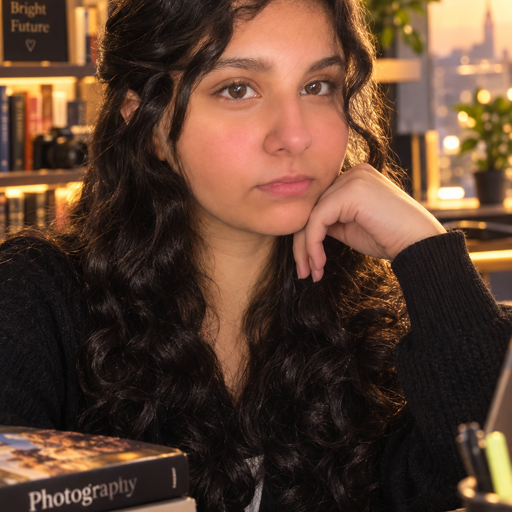
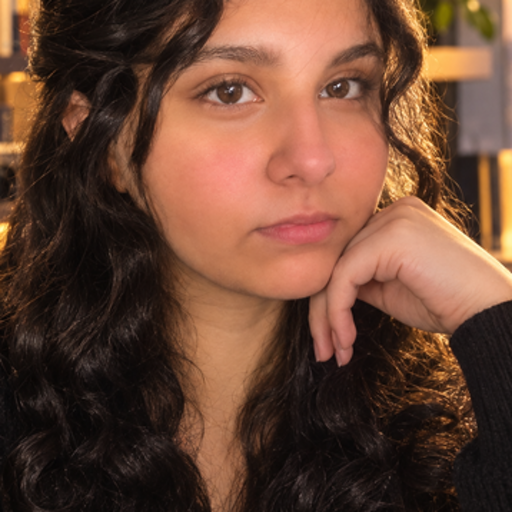
القص النهائي للصورة بالامتداد الصحيح

diff --git a/index.html b/index.html
@@ -5,7 +5,7 @@
     <meta name="viewport" content="width=device-width, initial-scale=1.0, maximum-scale=1.0, user-scalable=no">
     <link rel="manifest" href="manifest.json">
     <meta name="theme-color" content="#1a0b2e">
-    <link rel="apple-touch-icon" href="assets/icon.png?v=5">
+    <link rel="apple-touch-icon" href="assets/icon.png?v=6">
     
     <title>منصة رندة VIP - الرئيسية</title>
     <style>
@@ -205,7 +205,7 @@
         <div class="header-glass">
             <span class="vip-badge">VIP Student</span>
             <!-- مكان اللوجو اللي رح تعمله بالذكاء الاصطناعي -->
-            <img src="assets/icon.png?v=5" alt="Randa Profile" class="profile-pic">
+            <img src="assets/icon.png?v=6" alt="Randa Profile" class="profile-pic">
             
             <h1>أكاديمية رندة زربا</h1>
             <p>مدرسة الدوحة - الصف التاسع | منصة النخبة</p>

diff --git a/sw.js b/sw.js
@@ -1,4 +1,4 @@
-const CACHE_VERSION = '1789689587';
+const CACHE_VERSION = '1789689644';
 const CACHE_NAME = 'randa-pwa-v' + CACHE_VERSION;
 const urlsToCache = ['./', './index.html', './manifest.json', './arabic_lesson1.html'];
 
